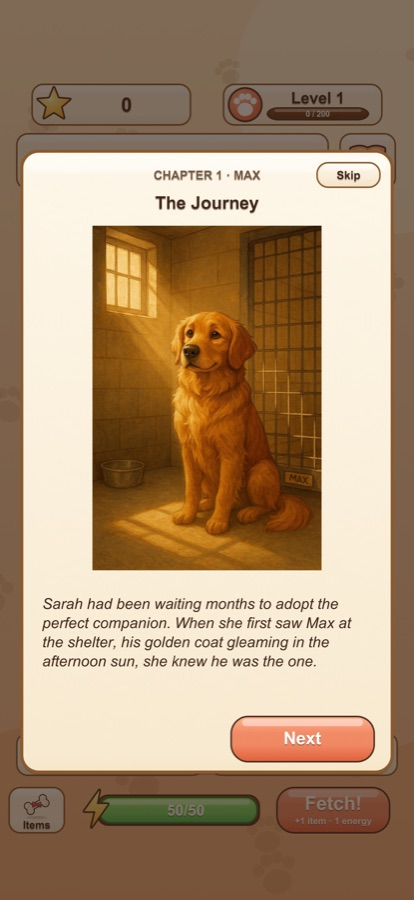
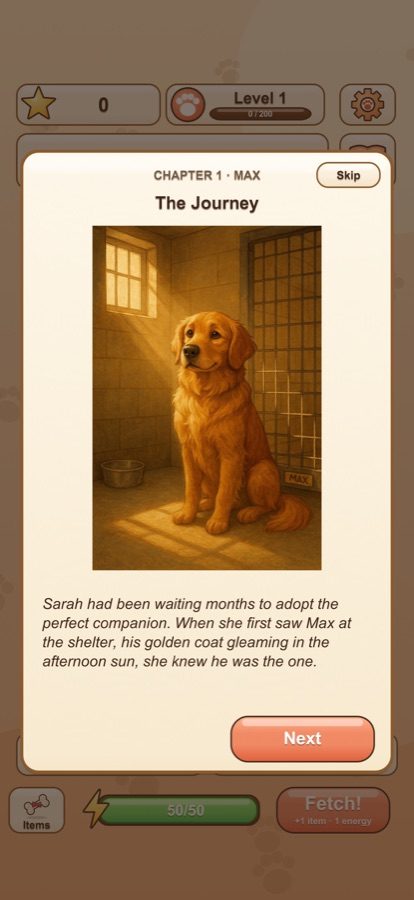
Point the site at the new Settings menu and refresh screenshots

diff --git a/how-to-play/index.html b/how-to-play/index.html
@@ -13,7 +13,7 @@
   <div class="wrap">
     <nav class="top"><a href="../">← Dog Stories</a></nav>
     <h1>How to play</h1>
-    <p class="lead">Dog Stories is a cozy merge game. Merge items to help each dog's human, earn points, and unlock the next chapter of the story. The game shows this same tour the first time you play, and you can replay it any time from the title screen or the Stories book.</p>
+    <p class="lead">Dog Stories is a cozy merge game. Merge items to help each dog's human, earn points, and unlock the next chapter of the story. The game shows this same tour the first time you play, and you can replay it any time from the title screen or Settings.</p>
 
     <section class="step">
       <img src="../images/howto/howto-0-title.jpg" alt="The title screen with Play and How to play buttons" loading="lazy">
@@ -74,8 +74,8 @@
     <section class="step">
       <img src="../images/howto/howto-7-tour.jpg" alt="The Stories book button highlighted" loading="lazy">
       <div>
-        <h2>8. Read stories and change settings</h2>
-        <p>The book button opens the Stories book. Reread any chapter you've unlocked, choose a music style, skip to the next song, and turn music and sounds on or off. How to play is in there too.</p>
+        <h2>8. Reread your stories</h2>
+        <p>The book button opens the Stories book, where you can reread any chapter you've unlocked.</p>
       </div>
     </section>
 
@@ -104,10 +104,10 @@
     </section>
 
     <section class="step">
-      <img src="../images/howto/howto-12-themes.jpg" alt="The Stories book with the Default, Lavender and Rose theme buttons, Default checked" loading="lazy">
+      <img src="../images/howto/howto-12-settings.jpg" alt="The Settings menu with music and sound switches, the music player, three color themes and How to play" loading="lazy">
       <div>
-        <h2>12. Choose your colors</h2>
-        <p>Open the Stories book with the book button at the top right. Under the music settings are three theme buttons, <strong>Default</strong>, <strong>Lavender</strong> and <strong>Rose</strong>, each drawn in its own colors. Tap one and the whole game changes right away. A check marks the theme you're using, and the game remembers it.</p>
+        <h2>12. Open Settings</h2>
+        <p>The gear button at the top right opens Settings. Turn <strong>Music</strong> and <strong>Sounds</strong> on or off, choose a music style or skip to the next song, and pick a color theme: <strong>Default</strong>, <strong>Lavender</strong> or <strong>Rose</strong>. Tap a theme and the whole game changes right away. How to play, the music credits, and the privacy and support links are in there too.</p>
       </div>
     </section>
 

diff --git a/support/index.html b/support/index.html
@@ -35,7 +35,7 @@
         <dd>Stories unlock as you level up. The banner above the board shows the level for the next one, and completing requests earns extra points.</dd>
 
         <dt>What is the bonus clock on a request?</dt>
-        <dd>Finish a request before its clock runs out for +5 bonus energy. The clock only counts time you're playing, so it stops during stories, in the Stories book and while the game is closed. If it runs out, nothing is lost: you can still finish the request and get the normal reward.</dd>
+        <dd>Finish a request before its clock runs out for +5 bonus energy. The clock only counts time you're playing, so it stops during stories, in the Stories book, in Settings and while the game is closed. If it runs out, nothing is lost: you can still finish the request and get the normal reward.</dd>
 
         <dt>What is the daily request?</dt>
         <dd>An optional extra shown below the board, with a new one each day. Finish it for +5 energy and 100 points. Tap it to see what it asks for.</dd>
@@ -44,10 +44,10 @@
         <dd>Yes. Tap the book button next to the request banner and choose <strong>Read again</strong>.</dd>
 
         <dt>How do I turn the music or sounds off?</dt>
-        <dd>Tap the book button, then use the <strong>Music</strong> and <strong>Sounds</strong> toggles at the bottom.</dd>
+        <dd>Tap the gear button at the top right, then use the <strong>Music</strong> and <strong>Sounds</strong> toggles.</dd>
 
         <dt>Can I choose the music?</dt>
-        <dd>Yes. Tap the book button, then tap <strong>Style</strong> to switch between Shuffle all, Chill, Piano, Chiptune, Jazz &amp; Funk, Puzzle and Mellow. <strong>Next song</strong> skips ahead, and <strong>Music credits</strong> lists every track and who made it.</dd>
+        <dd>Yes. Tap the gear button, then tap <strong>Style</strong> to switch between Shuffle all, Chill, Piano, Chiptune, Jazz &amp; Funk, Puzzle and Mellow. <strong>Next song</strong> skips ahead, and <strong>Music credits</strong> lists every track and who made it.</dd>
 
         <dt>Will I lose my progress?</dt>
         <dd>Your progress is saved on your device automatically. Deleting the app also deletes your progress.</dd>

diff --git a/index.html b/index.html
@@ -26,11 +26,11 @@
     </div>
 
     <section class="callout">
-      <img src="images/7-themes-book.jpg" alt="The Stories book in the Lavender theme, with Default, Lavender and Rose buttons under the music settings" loading="lazy">
+      <img src="images/howto/howto-12-settings.jpg" alt="The Settings menu with Default, Lavender and Rose color theme buttons" loading="lazy">
       <div>
         <span class="new">New</span>
         <h2>Pick your colors</h2>
-        <p>Dog Stories now comes in three color themes: the original warm <strong>Default</strong>, a soft purple <strong>Lavender</strong> and a gentle pink <strong>Rose</strong>. Open the Stories book and tap a theme under the music settings. The whole game changes at once, and it remembers your pick next time.</p>
+        <p>Dog Stories now comes in three color themes: the original warm <strong>Default</strong>, a soft purple <strong>Lavender</strong> and a gentle pink <strong>Rose</strong>. Tap the gear button to open Settings and tap a theme. The whole game changes at once, and it remembers your pick next time.</p>
         <div class="themes">
           <figure><img src="images/theme-default.jpg" alt="The merge board in the Default theme: cream and tan" loading="lazy"><figcaption>Default</figcaption></figure>
           <figure><img src="images/theme-lavender.jpg" alt="The merge board in the Lavender theme: soft purple" loading="lazy"><figcaption>Lavender</figcaption></figure>
